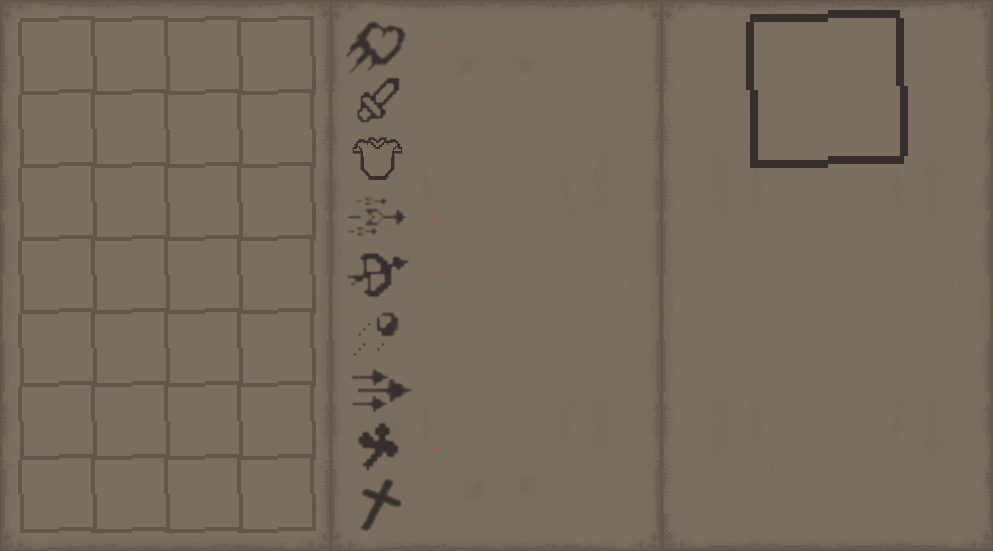
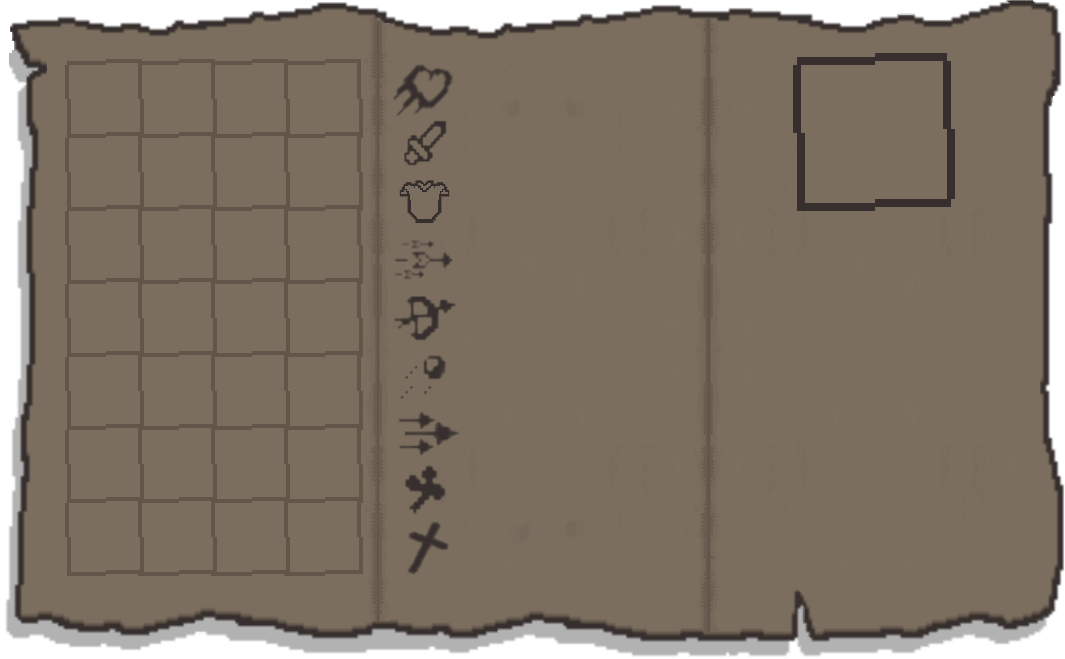
eq-background updated

Changed region(s): [[0.0, 0.0, 1.0, 1.0]]

diff --git a/src/entities/player/equipment.py b/src/entities/player/equipment.py
@@ -61,8 +61,8 @@ class Equipment():
 
         #items
         self.items = []
-        self.first_item_x = self.x + 22
-        self.first_item_y = self.y + 22
+        self.first_item_x = self.x + 69
+        self.first_item_y = self.y + 65
         self.item_distance = 73
         self.item_size = self.item_distance - 3
         self.item_in_row = 4
@@ -93,8 +93,8 @@ class Equipment():
         self.font_color = (54, 47, 45)
 
         #stats
-        self.stats_x = self.x + 430
-        self.stats_y = self.y + 46
+        self.stats_x = self.x + 475
+        self.stats_y = self.y + 90
         self.stats_y_change = 58
 
     def draw(self, screen):
